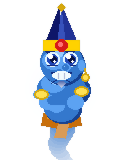
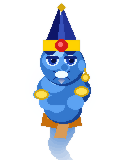
face: half-lidded relaxed eyes + smirk, no more shocked open-mouth panic

Changed region(s): [[0.375, 0.3125, 0.65, 0.5625], [0.5, 0.4062, 0.525, 0.4375]]

diff --git a/gen_sprites.py b/gen_sprites.py
@@ -129,41 +129,49 @@ def draw_head(draw, cx, cy):
     ell(draw, cx + r + 3, cy + 15, 2, 2, GOLD_LIGHT)
 
 def draw_face(draw, cx, cy):
-    # Eyebrows — thick arched
-    for bx0 in [cx - 16, cx + 4]:
-        for j in range(10):
-            arch = int((j - 4.5) ** 2 * 0.22)
-            ell(draw, bx0 + j, cy - 11 - arch, 2, 2, BROW)
+    # Eyebrows — gently arched, relaxed (not raised in shock)
+    for bx0, flip in [(cx - 15, 1), (cx + 5, -1)]:
+        for j in range(8):
+            arch = int((j - 3.5) ** 2 * 0.18)
+            ell(draw, bx0 + j, cy - 10 - arch, 2, 2, BROW)
 
-    # Big Disney eyes
+    # Eyes — half-lidded, cool/relaxed (not wide-open shocked)
     for ex in [cx - 9, cx + 9]:
-        ell(draw, ex, cy - 3, 7, 7, EYE_WHITE)
-        ell(draw, ex, cy - 3, 5, 5, EYE_IRIS)
-        ell(draw, ex + 1, cy - 3, 3, 3, EYE_PUPIL)
-        ell(draw, ex - 2, cy - 6, 2, 2, (255, 255, 255, 210))
-        ell(draw, ex + 2, cy - 1, 1, 1, (255, 255, 255, 150))
-        draw.line([(ex - 5, cy + 3), (ex + 5, cy + 3)], fill=BROW, width=1)
+        # eye white — slightly smaller, oval not circle
+        ell(draw, ex, cy - 2, 6, 5, EYE_WHITE)
+        # iris
+        ell(draw, ex, cy - 2, 4, 4, EYE_IRIS)
+        # pupil
+        ell(draw, ex + 1, cy - 2, 2, 2, EYE_PUPIL)
+        # shine
+        ell(draw, ex - 1, cy - 4, 1, 1, (255, 255, 255, 220))
+        # upper eyelid — covers top third of eye = relaxed/half-lidded look
+        draw.line([(ex - 6, cy - 5), (ex + 6, cy - 5)], fill=BROW, width=2)
+        draw.line([(ex - 5, cy - 6), (ex + 5, cy - 6)], fill=BROW, width=1)
 
-    # Nose bulb
-    ell(draw, cx + 4, cy + 5, 5, 4, BODY_LIGHT)
-    ell(draw, cx + 4, cy + 5, 3, 3, BODY_MID)
-    draw.point((cx + 3, cy + 4), fill=BODY_BRIGHT)
+    # Nose — small rounded bulb
+    ell(draw, cx + 3, cy + 5, 5, 4, BODY_LIGHT)
+    ell(draw, cx + 3, cy + 5, 3, 3, BODY_MID)
 
-    # Wide smile with teeth
-    sy = cy + 12
-    for dx in range(-10, 11):
-        draw.point((cx + dx, sy + 5 + int(dx * dx * 0.045)), fill=LIP)
-    draw.line([(cx - 10, sy - 2), (cx + 10, sy - 2)], fill=LIP, width=2)
-    ell(draw, cx, sy + 1, 9, 4, TEETH)
-    for tx in [cx - 3, cx + 3]:
-        draw.line([(tx, sy - 1), (tx, sy + 4)], fill=(*LIP[:3], 70), width=1)
+    # Friendly closed smirk — no gaping mouth
+    sy = cy + 11
+    # lower lip curve
+    for dx in range(-8, 9):
+        curve = int(dx * dx * 0.055)
+        draw.point((cx + dx, sy + 3 + curve), fill=LIP)
+    # upper lip line — straight with slight upturn at corners
+    for dx in range(-8, 9):
+        upturn = int(abs(dx) * 0.3)
+        draw.point((cx + dx, sy - upturn), fill=LIP)
+    # small visible teeth strip — understated
+    ell(draw, cx, sy + 1, 6, 3, TEETH)
 
     # Goatee
-    for dy in range(7):
-        bw = max(0, 4 - abs(dy - 2))
+    for dy in range(6):
+        bw = max(0, 3 - abs(dy - 2))
         for dx in range(-bw, bw + 1):
-            a = max(70, BEARD[3] - dy * 22)
-            draw.point((cx + dx, sy + 7 + dy), fill=(*BEARD[:3], a))
+            a = max(60, BEARD[3] - dy * 25)
+            draw.point((cx + dx, sy + 5 + dy), fill=(*BEARD[:3], a))
 
 # ── sash ──────────────────────────────────────────────────────────────────────
 
